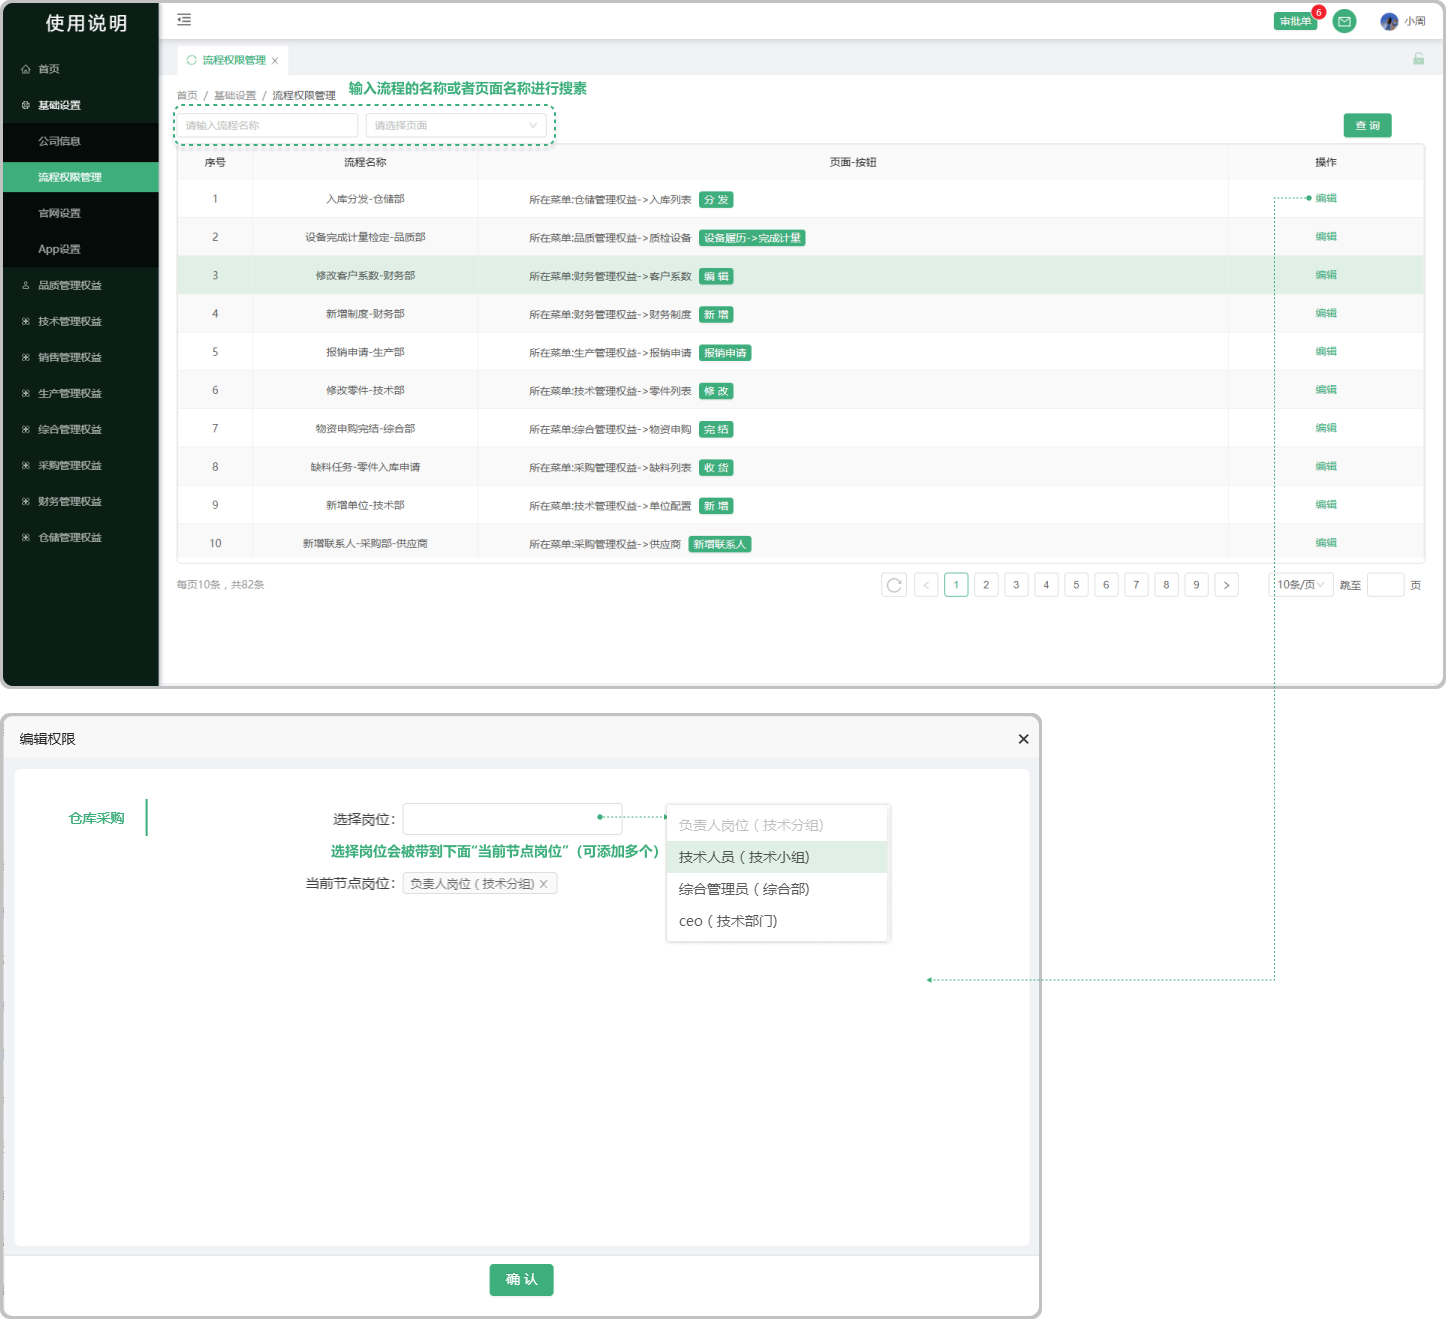
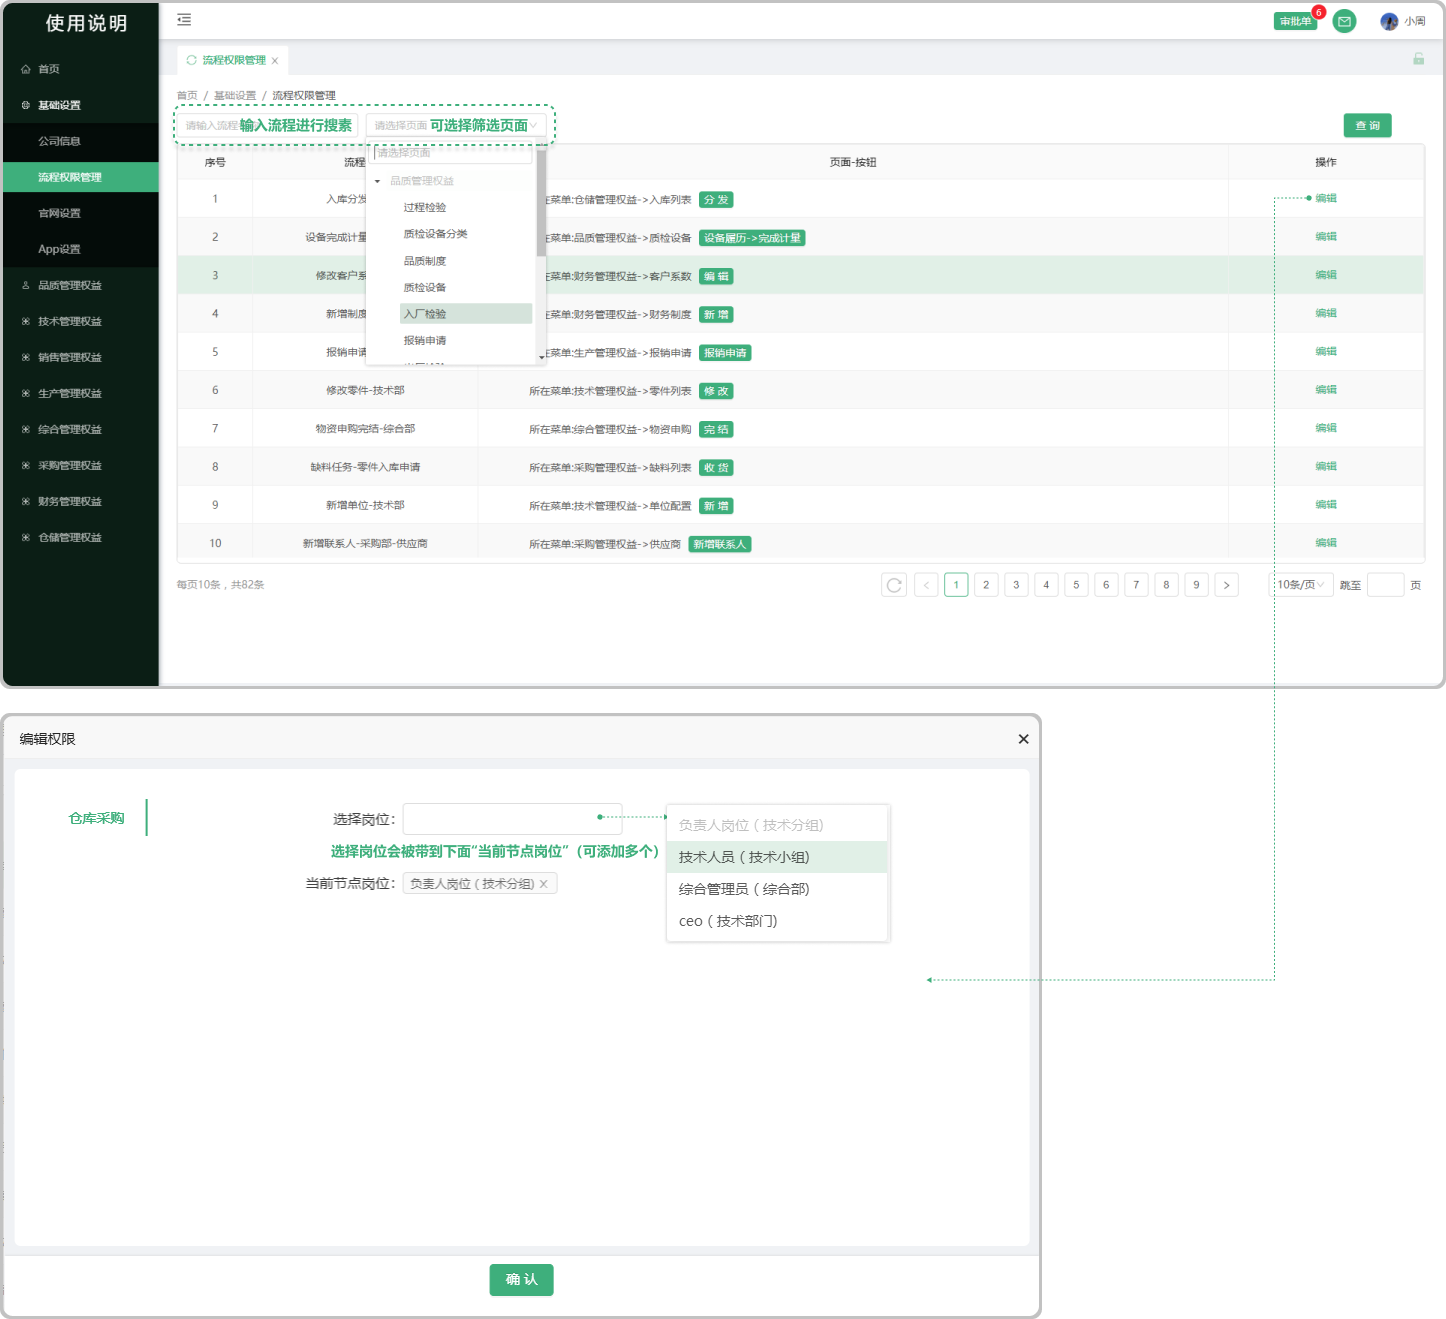
jintianxiugai

Changed region(s): [[0.1867, 0.0622, 0.4046, 0.2798], [0.3734, 0.1243, 0.4046, 0.1865]]

diff --git a/docs/基础设置/流程权限管理.md b/docs/基础设置/流程权限管理.md
@@ -5,7 +5,7 @@
 *  目的：确保用户只能访问和操作其被授权的流程，保护系统数据的安全性和完整性，防止未经授权的访问和操作。
 
 #### 1. 如图所示：
-* 可以搜索名称或者搜素页面能够快速查找到需要分配的权限设置，权限可以进行编辑更改,如果用户没有这个流程的权限，就没有办法操作这个流程，就没有操作这个流程的权限,流程又分为流程节点，如果是审批的节点有权限只能进行审批，如果有申请权限只可以申请
+* 可以搜索名称或者选择筛选页面能够快速查找到需要分配的权限设置，权限可以进行编辑更改,如果用户没有这个流程的权限，就没有办法操作这个流程，就没有操作这个流程的权限,流程又分为流程节点，如果是审批的节点有权限只能进行审批，如果有申请权限只可以申请
 
 
 ![如图所示](../file/lcqxgl.png)

diff --git a/docs/基础设置/公司信息/部门岗位.md b/docs/基础设置/公司信息/部门岗位.md
@@ -14,7 +14,7 @@
 > 点击岗位详情弹出弹窗进行编辑，可在弹窗中添加新的岗位（可编辑、删除），可在菜单栏中勾选当前岗位需要使用的功能，支持预览所勾选的字段，如果页面出现 "当前页面展示的数据已配置好"的情况，说明是静态页面，不需要进行配置
 
 * 添加岗位：可添加新的岗位（添加的岗位均为部门负责人下平级岗位）（支持删除、编辑）
-* 预览：点击预览可预览所勾选的字段（在菜单栏中选系统页面，没选中的情况下不显示 ”预览“这个按钮）
+* 预览：点击预览可预览所勾选的页面（在菜单栏中选系统页面，没选中的情况下不显示 ”预览“这个按钮）
 * 编辑小笔：悬浮或者点击出现的小笔图标均可编辑
 * 行数据权限：查看当前部门下所有的数据
 

diff --git a/docs/销售管理/报价列表.md b/docs/销售管理/报价列表.md
@@ -3,7 +3,7 @@
 > "报价列表”位于"销售管理板块，维护报价单数据
 #### 1. 新增报价单：
 * 生成报价单的方式包括：
- 
+
     -直接新建, 报价信息由销售人员编辑
   
     -将询价转为报价，报价信息由销售人员编辑
